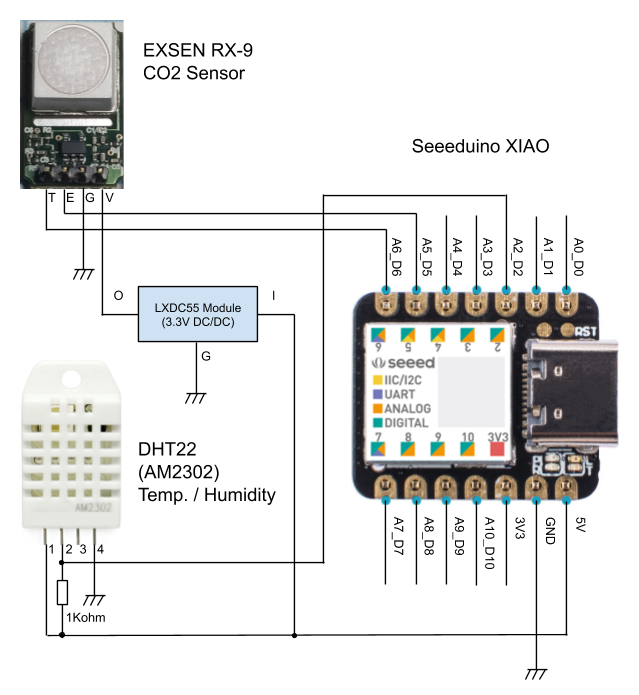
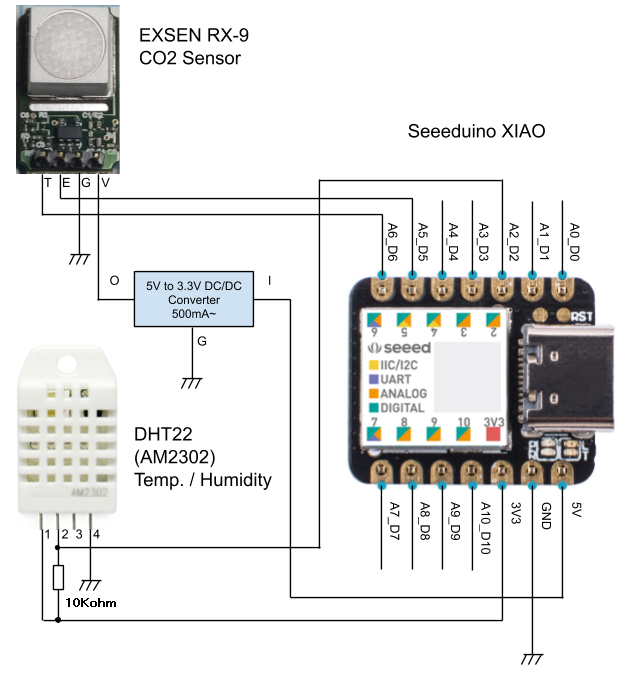
fix: Changed DHT22 pull-up register from 1Kohm to 10Kohm

Changed region(s): [[0.0, 0.0, 0.9937, 0.997], [0.0301, 0.5608, 0.4216, 0.7478], [0.6323, 0.1869, 0.8732, 0.2181]]

diff --git a/Readme.md b/Readme.md
@@ -9,6 +9,7 @@
 | 2 | EXSEN / RX-9 | Solid Electrochemical CO2 Sensor |
 | 3 | DHT22 (AM2302) | Temperature / Humidity Sensor |
 | 4 | 5V to 3.3V Step Down DC/DC with output current capacity 500mA~ | 3.3V power supply for RX-9 |
+| 5 | 10Kohm | DHT22 pull up |
 
 Since RX-9 could consume 242mA (max) current during warming up, 3.3V power for RX-9 must be separated from Seeeduino XIAO's 3.3V.
 
@@ -18,7 +19,7 @@ Since RX-9 could consume 242mA (max) current during warming up, 3.3V power for R
 ## Pin Assignment
 | Definition | Arduino Pin No. | Attribute | Connected with |
 ----|----|----|---- 
-| DHTPIN | 2 | Analog In | DHT22 Pin2 |
+| DHTPIN | 2 | Digital In | DHT22 Pin2 |
 | EMF_pin | 5 | Analog In | RX-9 ETF |
 | THER_pin | 6 | Analog In | RX-9 THER |
 
